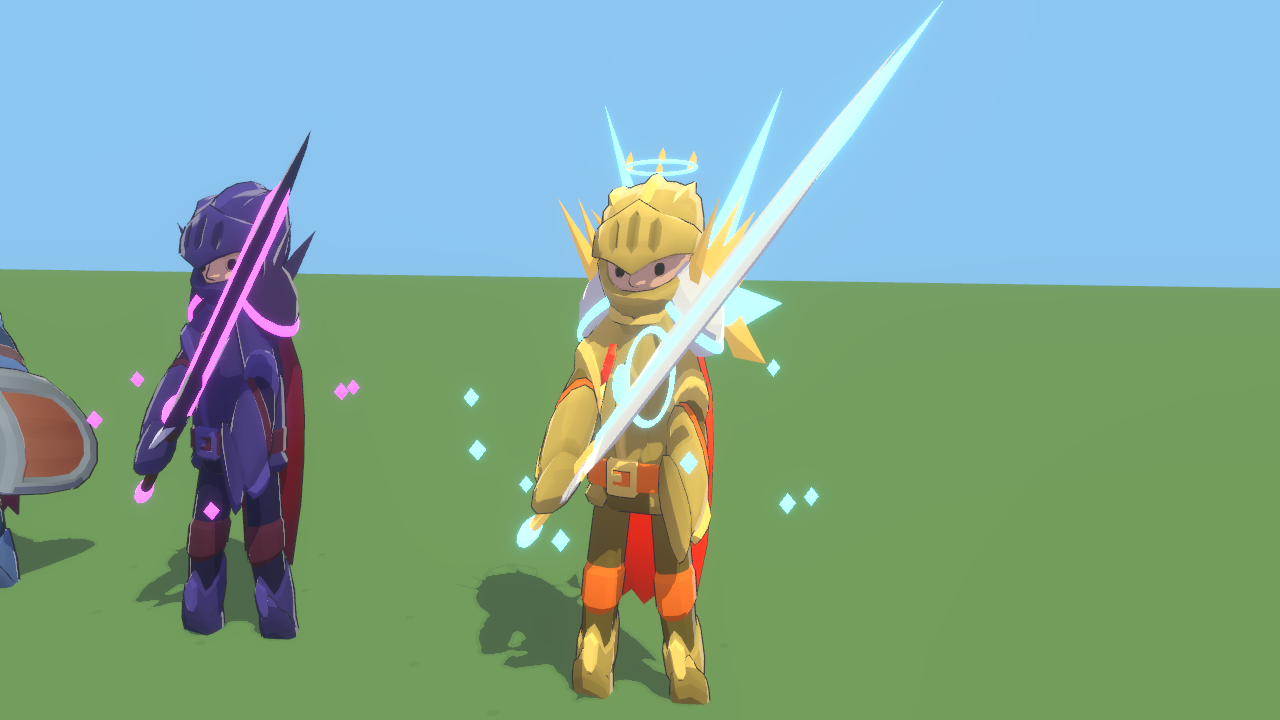
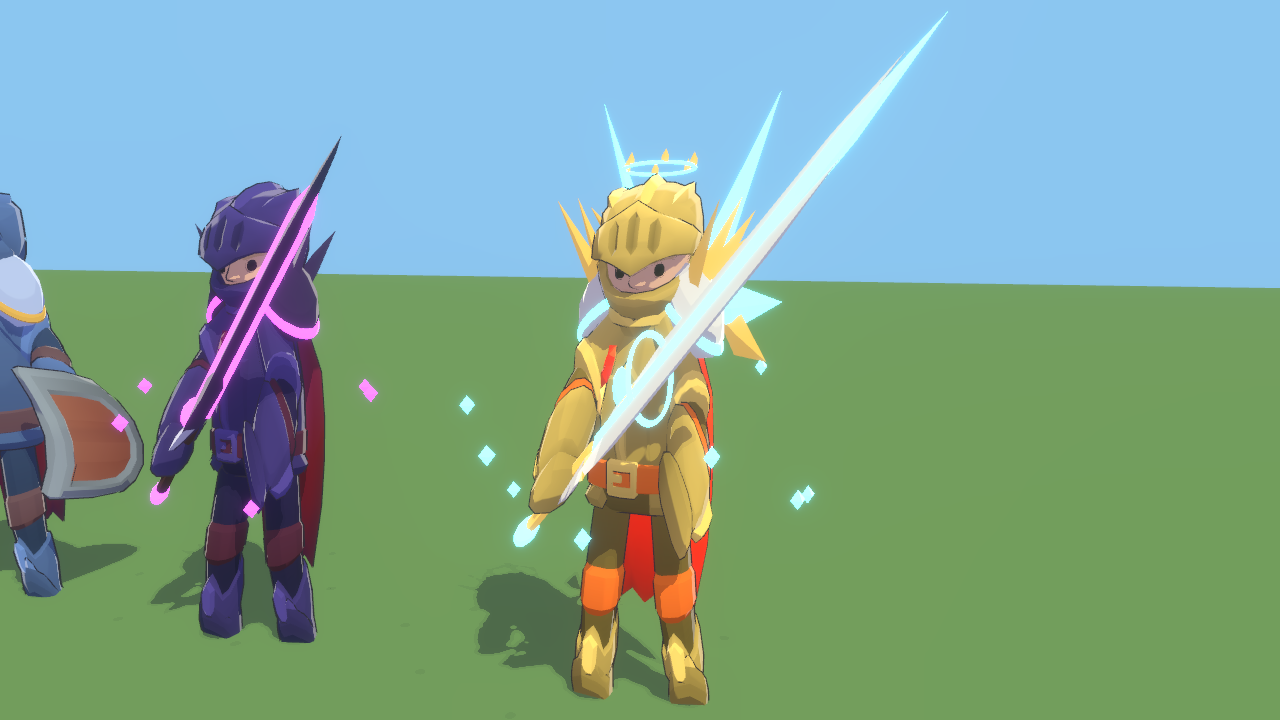
Art samples: Felari race and Uncommon gear tier; record user answers
- Felari (cat folk): cat ears and an upward-curling tail in the hair
  colour, shown alongside the other four races.
- Uncommon tier between Common and Rare: lightly tinted armour, plain
  shoulder caps, a sturdier steel sword with green accents.
- Docs: five races and five gear tiers; up to 8 characters per account;
  the first account takes over the existing saved character; monsters
  get real models after M11 stage 1. Sample pictures re-rendered.

Claude-Session: https://claude.ai/code/session_01UDBu4QQow34DHm94NhCQSL

diff --git a/client/examples/art_samples.rs b/client/examples/art_samples.rs
@@ -83,12 +83,14 @@ enum Race {
     Elf,
     Drake,
     Demon,
+    Felari,
 }
 
 #[derive(Clone, Copy, PartialEq)]
 enum Tier {
     /// The pack's own weapon(s).
     Plain,
+    Uncommon,
     Rare,
     Epic,
     Legendary,
@@ -180,18 +182,18 @@ fn main() {
             vec![
                 s(0.0, [0.0, 1.45, 5.6], [0.0, 1.0, 0.0], false),
                 s(7.0, [0.0, 1.45, 5.6], [0.0, 1.0, 0.0], true),
-                s(8.5, [12.0, 1.45, 5.6], [12.0, 1.0, 0.0], false),
-                s(10.5, [12.0, 1.45, 5.6], [12.0, 1.0, 0.0], true),
-                s(12.0, [14.6, 2.0, 2.2], [12.9, 1.5, 0.0], false),
-                s(14.0, [14.6, 2.0, 2.2], [12.9, 1.5, 0.0], true),
-                s(14.8, [15.2, 1.7, -3.2], [12.9, 0.9, 0.0], false),
-                s(16.8, [15.2, 1.7, -3.2], [12.9, 0.9, 0.0], true),
-                s(18.0, [24.2, 1.6, 7.0], [24.2, 1.15, 0.0], false),
-                s(20.0, [24.2, 1.6, 7.0], [24.2, 1.15, 0.0], true),
-                s(21.5, [27.6, 1.7, 3.0], [26.7, 1.25, 0.0], false),
-                s(23.5, [27.6, 1.7, 3.0], [26.7, 1.25, 0.0], true),
-                s(25.0, [40.0, 1.3, 4.6], [40.0, 1.05, 0.0], false),
-                s(27.0, [40.0, 1.3, 4.6], [40.0, 1.05, 0.0], true),
+                s(8.5, [12.0, 1.45, 6.4], [12.0, 1.0, 0.0], false),
+                s(10.5, [12.0, 1.45, 6.4], [12.0, 1.0, 0.0], true),
+                s(12.0, [15.6, 2.0, 2.4], [13.4, 1.5, 0.0], false),
+                s(14.0, [15.6, 2.0, 2.4], [13.4, 1.5, 0.0], true),
+                s(14.8, [15.8, 1.7, -3.8], [13.0, 0.9, 0.0], false),
+                s(16.8, [15.8, 1.7, -3.8], [13.0, 0.9, 0.0], true),
+                s(18.0, [23.9, 1.6, 8.2], [23.9, 1.15, 0.0], false),
+                s(20.0, [23.9, 1.6, 8.2], [23.9, 1.15, 0.0], true),
+                s(21.5, [27.9, 1.7, 3.0], [27.0, 1.25, 0.0], false),
+                s(23.5, [27.9, 1.7, 3.0], [27.0, 1.25, 0.0], true),
+                s(25.0, [40.1, 1.3, 5.2], [40.1, 1.05, 0.0], false),
+                s(27.0, [40.1, 1.3, 5.2], [40.1, 1.05, 0.0], true),
                 s(28.5, [0.0; 3], [0.0; 3], false),
             ],
             0,
@@ -322,7 +324,7 @@ fn setup(
     hero(
         &mut commands,
         &assets,
-        10.2,
+        9.6,
         Hero {
             show: &["Knife"],
             ..base("Rogue.glb", "Idle")
@@ -331,7 +333,7 @@ fn setup(
     hero(
         &mut commands,
         &assets,
-        11.4,
+        10.8,
         Hero {
             race: Race::Elf,
             hide: &["Mage_Hat"],
@@ -342,7 +344,7 @@ fn setup(
     hero(
         &mut commands,
         &assets,
-        12.6,
+        12.0,
         Hero {
             race: Race::Drake,
             hide: &["Barbarian_Hat"],
@@ -354,7 +356,7 @@ fn setup(
     hero(
         &mut commands,
         &assets,
-        13.8,
+        13.2,
         Hero {
             race: Race::Demon,
             // The cape would cover the tail.
@@ -364,12 +366,23 @@ fn setup(
             ..base("Rogue.glb", "Idle")
         },
     );
+    hero(
+        &mut commands,
+        &assets,
+        14.4,
+        Hero {
+            race: Race::Felari,
+            hide: &["Rogue_Cape"],
+            show: &["1H_Crossbow"],
+            ..base("Rogue.glb", "Idle")
+        },
+    );
 
     // 3. Gear tiers on the same knight.
     hero(
         &mut commands,
         &assets,
-        21.5,
+        20.8,
         Hero {
             show: &["1H_Sword", "Round_Shield"],
             ..base("Knight.glb", "Idle")
@@ -378,7 +391,18 @@ fn setup(
     hero(
         &mut commands,
         &assets,
-        23.2,
+        22.3,
+        Hero {
+            tier: Tier::Uncommon,
+            armour_tint: Some(Color::srgb(0.8, 1.05, 0.8)),
+            show: &["Round_Shield"],
+            ..base("Knight.glb", "Idle")
+        },
+    );
+    hero(
+        &mut commands,
+        &assets,
+        23.8,
         Hero {
             tier: Tier::Rare,
             armour_tint: Some(Color::srgb(0.7, 0.85, 1.15)),
@@ -389,7 +413,7 @@ fn setup(
     hero(
         &mut commands,
         &assets,
-        24.9,
+        25.3,
         Hero {
             tier: Tier::Epic,
             armour_tint: Some(Color::srgb(0.55, 0.42, 0.85)),
@@ -399,7 +423,7 @@ fn setup(
     hero(
         &mut commands,
         &assets,
-        26.7,
+        27.0,
         Hero {
             tier: Tier::Legendary,
             armour_tint: Some(Color::srgb(1.7, 1.35, 0.65)),
@@ -418,12 +442,13 @@ fn setup(
                 .with_scale(Vec3::splat(0.8)),
         ));
     };
-    kay("sword_1handed.gltf", 37.4, &mut commands);
-    kay("axe_2handed.gltf", 38.3, &mut commands);
+    kay("sword_1handed.gltf", 37.0, &mut commands);
+    kay("axe_2handed.gltf", 37.9, &mut commands);
     for (x, tier) in [
-        (39.3, Tier::Rare),
-        (40.4, Tier::Epic),
-        (41.6, Tier::Legendary),
+        (38.9, Tier::Uncommon),
+        (39.9, Tier::Rare),
+        (40.9, Tier::Epic),
+        (42.0, Tier::Legendary),
     ] {
         let holder = commands
             .spawn(
@@ -878,6 +903,66 @@ fn race_parts(
                 }
             }
         }
+        Race::Felari => {
+            // Cat ears on top of the head and a long, swishing tail, in the
+            // hair colour.
+            let fur = mat(toon, Color::srgb(0.55, 0.28, 0.18), 0.0);
+            let inner = mat(toon, Color::srgb(0.98, 0.7, 0.7), 0.0);
+            let tip = mat(toon, Color::srgb(0.95, 0.9, 0.85), 0.0);
+            for side in [-1.0f32, 1.0] {
+                let ear = commands
+                    .spawn((
+                        Transform::from_xyz(side * 0.3, 0.78, 0.0).with_rotation(
+                            Quat::from_rotation_z(-side * 0.3) * Quat::from_rotation_x(-0.12),
+                        ),
+                        ChildOf(head),
+                    ))
+                    .id();
+                part(
+                    commands,
+                    toon,
+                    ear,
+                    blade(&[(0.0, 0.19), (0.14, 0.15), (0.38, 0.0)], 0.4),
+                    &fur,
+                    Transform::IDENTITY,
+                );
+                part(
+                    commands,
+                    toon,
+                    ear,
+                    blade(&[(0.05, 0.11), (0.15, 0.08), (0.3, 0.0)], 0.2),
+                    &inner,
+                    Transform::from_xyz(0.0, 0.0, 0.04),
+                );
+            }
+            if let Some(hips) = hips {
+                let pts = curve(
+                    Vec3::new(0.0, 0.3, -0.5),
+                    Vec3::new(-0.12, -0.55, -1.0),
+                    Vec3::X,
+                    0.24,
+                    0.12,
+                    12,
+                );
+                let radii: Vec<f32> = (0..=12).map(|i| 0.075 - 0.02 * i as f32 / 12.0).collect();
+                part(
+                    commands,
+                    toon,
+                    hips,
+                    tube(&pts, &radii, 7),
+                    &fur,
+                    Transform::IDENTITY,
+                );
+                part(
+                    commands,
+                    toon,
+                    hips,
+                    Sphere::new(0.07).mesh().ico(1).unwrap(),
+                    &tip,
+                    Transform::from_translation(pts[12]),
+                );
+            }
+        }
         Race::Demon => {
             let horn = mat(toon, Color::srgb(0.12, 0.05, 0.08), 0.0);
             let red = mat(toon, Color::srgb(0.75, 0.1, 0.18), 0.6);
@@ -959,6 +1044,43 @@ fn weapon(commands: &mut Commands, toon: &mut toon::ToonAssets, holder: Entity, 
     let grip = mat(toon, Color::srgb(0.25, 0.15, 0.1), 0.0);
     match tier {
         Tier::Plain => {}
+        Tier::Uncommon => {
+            // A cleaner, sturdier steel sword: no glow yet, a touch of green.
+            let steel = mat(toon, Color::srgb(0.78, 0.8, 0.84), 0.0);
+            let green = mat(toon, Color::srgb(0.3, 0.75, 0.35), 0.4);
+            part(
+                commands,
+                toon,
+                holder,
+                Cylinder::new(0.04, 0.28).into(),
+                &green,
+                Transform::IDENTITY,
+            );
+            part(
+                commands,
+                toon,
+                holder,
+                blade(&[(0.0, 0.14), (0.75, 0.13), (0.95, 0.0)], 0.32),
+                &steel,
+                Transform::from_xyz(0.0, 0.17, 0.0),
+            );
+            part(
+                commands,
+                toon,
+                holder,
+                Cuboid::new(0.42, 0.06, 0.1).into(),
+                &steel,
+                Transform::from_xyz(0.0, 0.17, 0.0),
+            );
+            part(
+                commands,
+                toon,
+                holder,
+                Sphere::new(0.05).mesh().ico(1).unwrap(),
+                &green,
+                Transform::from_xyz(0.0, -0.17, 0.0),
+            );
+        }
         Tier::Rare => {
             let steel = mat(toon, Color::srgb(0.82, 0.88, 0.95), 0.0);
             let gold = mat(toon, Color::srgb(0.95, 0.75, 0.3), 0.0);
@@ -1243,6 +1365,29 @@ fn armour(
     head: Option<Entity>,
     tier: Tier,
 ) {
+    if tier == Tier::Uncommon {
+        let steel = mat(toon, Color::srgb(0.7, 0.74, 0.7), 0.0);
+        let green = mat(toon, Color::srgb(0.3, 0.75, 0.35), 0.4);
+        for side in [-1.0f32, 1.0] {
+            part(
+                commands,
+                toon,
+                chest,
+                Sphere::new(0.2).mesh().ico(1).unwrap(),
+                &steel,
+                Transform::from_xyz(side * 0.42, 0.2, 0.0).with_scale(Vec3::new(1.0, 0.55, 0.95)),
+            );
+        }
+        part(
+            commands,
+            toon,
+            chest,
+            Sphere::new(0.06).mesh().ico(1).unwrap(),
+            &green,
+            Transform::from_xyz(0.0, -0.05, 0.38),
+        );
+        return;
+    }
     let (plate, trim, glow) = match tier {
         Tier::Rare => (
             Color::srgb(0.75, 0.82, 0.95),

diff --git a/MILESTONES.md b/MILESTONES.md
@@ -179,17 +179,17 @@ the next. See `docs/art-direction.md` for the agreed look.
   sword and shield, censer…); the lantern on the belt or held up.
   Toon shading + skinned outlines. Proportion numbers in a data file.
 - **Races as data** (cosmetic only for now; a very minor bonus may come
-  later): Humans, Elves, Drakes, Demons. Race parts attach to bones (ears,
+  later): Humans, Elves, Drakes, Demons, Felari (cat folk). Race parts attach to bones (ears,
   horns, cheek scales, tails); horns must touch the head; capes must make
   room for tails.
 - **Customization as data:** body type, height, build, skin tone, face,
   eye colour, hairstyle, hair colour, outfit colour; per race: ear length
   and angle (Elves); horn style, scale colour, tail length (Drakes); horn
   style, skin tones incl. red/purple/blue/grey, tail, optional small wings,
-  glowing eyes (Demons). Sliders reshape, parts attach, recolours change
+  glowing eyes (Demons); ear shape, tail length, fur pattern (Felari). Sliders reshape, parts attach, recolours change
   materials.
-- **Gear looks by tier** (the user's top priority): Common / Rare / Epic /
-  Legendary — bigger, brighter, more alive per tier (glow, floating and
+- **Gear looks by tier** (the user's top priority): Common / Uncommon /
+  Rare / Epic / Legendary — bigger, brighter, more alive per tier (glow, floating and
   spinning parts, wings, halos, sparkles); see the art samples. Item data
   gets an `appearance` (DESIGN.md §10 already planned this field).
 - **Accounts:** register and log in (argon2-hashed passwords, DESIGN.md
@@ -197,10 +197,10 @@ the next. See `docs/art-direction.md` for the agreed look.
   screen with starting class, race and customization and a live 3D preview
   you can rotate. Works offline first, before networking exists.
 - **Saving:** appearance and account in the database (new migrations).
-- Open questions (ask the user when starting this stage; suggestions in
-  brackets): characters per account [8]; does the first account take over
-  the characters already in the save file [yes]; should monsters
-  (wolves, mushrooms, bosses) move to real models later [probably].
+- Answered 2026-10-05: up to **8 characters per account** (for now); the
+  **first account takes over the character already in the save file**;
+  **monsters** (wolves, mushrooms, bosses) get real models later, after
+  stage 1.
 
 ### Stage 2 — Networking
 - Headless server program using lightyear (UDP); clients enter `IP:port`

diff --git a/docs/art-direction.md b/docs/art-direction.md
@@ -46,14 +46,21 @@ How characters, races and gear should look. Sample pictures are in
      of spines that curls up at the end.
    - **Demons** (like succubi / TERA's Castanic): horns that rise and curve
      forward; a long, thin S-shaped tail ending in a heart-shaped spade.
+   - **Felari** (cat folk, like FFXIV's Miqo'te; the name was chosen on
+     2026-10-05 so it is our own): cat ears on top of the head (fur outside,
+     pink inside) and a long tail that curls upward, both in the hair colour,
+     with a pale tail tip.
    - Horns must touch the head (rooted in it, never floating). Tails start at
      the hips. Capes cover tails, so tailed races need capes that make room
      (the sample hides the demon's cape for now).
    - A very minor racial bonus might come later. For now races are cosmetic
      only.
-4. **Gear tiers get bigger, brighter and more alive** (`docs/art/gear-*.png`).
+4. **Five gear tiers get bigger, brighter and more alive** (`docs/art/gear-*.png`).
    This is where most of the art effort goes:
    - **Common:** the pack's own weapons and armour.
+   - **Uncommon** (added 2026-10-05): a touch of green. Lightly tinted armour,
+     small plain shoulder caps, a sturdier steel sword with a green grip and
+     pommel. No glow yet.
    - **Rare:** recoloured armour, shoulder plates with gold trim, a sword with
      a gold guard and a glowing gem.
    - **Epic:** dark armour with glowing trim, spiked shoulders, a large

diff --git a/CLAUDE.md b/CLAUDE.md
@@ -21,8 +21,8 @@ Guide for working in this repository (for Claude and for humans).
   **M10** (all 13 specializations; stacking statuses, slows, lunges, damage
   that heals; spec switching in the lantern panel, saved per class).
 - Next: **M11** in three stages (see `MILESTONES.md`): 1) real character
-  models (KayKit, longer and slimmer), races, customization, gear looks by
-  tier, accounts + character list + character creation; 2) networking;
+  models (KayKit, longer and slimmer), five races (Humans, Elves, Drakes,
+  Demons, Felari), customization, five gear tiers (Common to Legendary), accounts + character list + character creation; 2) networking;
   3) parties + chat. The art direction is agreed: `docs/art-direction.md`
   (samples in `docs/art/`, made by `client/examples/art_samples.rs`).
 - Order: single-player content first; multiplayer is **M11** (user's choice, 2026-10-04).

diff --git a/DESIGN.md b/DESIGN.md
@@ -576,7 +576,10 @@ with one key; quest progress still records.
    Character creation: starting class, race, MMO-style customization.
 10. **Races** (cosmetic for now, maybe a very minor bonus later): Humans,
     Elves (elegant, blood/high elf), Drakes (like FFXIV's Au Ra), Demons
-    (succubi / TERA's Castanic).
+    (succubi / TERA's Castanic), Felari (cat folk like FFXIV's Miqo'te).
 11. **Art:** see §9 and `docs/art-direction.md`. VRoid/VRM anime models
     were rejected. Blender modelling is the user's side project.
-
+12. **Gear tiers:** Common, Uncommon, Rare, Epic, Legendary.
+13. **Accounts:** up to 8 characters each (for now). The first account
+    takes over the character already in the save file.
+14. **Monsters** get real models later (after M11 stage 1).
